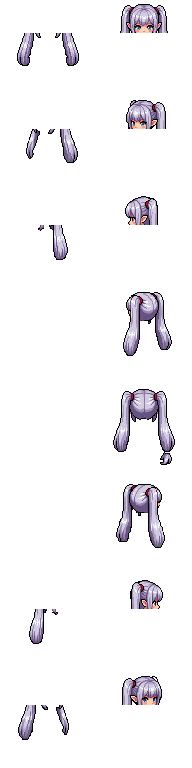
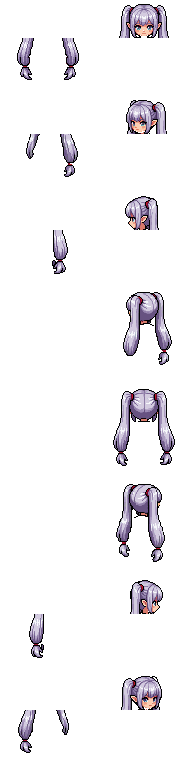
Twintail head keeps its chin; tails hang in one piece
The twintail layer was cut at the middle of the face: the neck finder counted the face's pink
as the red clothes the hairstyle sprite wears, so the chin was lost and the head sank into the
shirt. Skin no longer counts as clothes; small red patches well below the neck are hair ties
(the tips below them no longer float apart); red just above the neck is the collar seen from
behind. The layer is cut again from its rest sheet (neck 38).

Claude-Session: https://claude.ai/code/session_01EoAgD4nUuveX489aYfu2wP

diff --git a/tools/char_layers.py b/tools/char_layers.py
@@ -104,11 +104,13 @@ def is_skin(rgb):
 
 def find_neck(cell):
     """Top row of the red clothes near the middle of the body: the first of three rows that
-    each have at least 5 clothes pixels across the middle (a red hair tie or ribbon has fewer)."""
+    each have at least 5 clothes pixels across the middle (a red hair tie or ribbon has fewer;
+    the pink of the face isn't clothes)."""
     a = cell[..., 3] > 0
     xs = np.nonzero(a.any(0))[0]
     mid = int((xs.min() + xs.max()) / 2)
-    band = [sum(1 for x in range(mid - 6, mid + 7) if a[y, x] and is_cloth(cell[y, x, :3])) for y in range(CELL)]
+    band = [sum(1 for x in range(mid - 6, mid + 7) if a[y, x] and is_cloth(cell[y, x, :3]) and not is_skin(cell[y, x, :3]))
+            for y in range(CELL)]
     for y in range(CELL - 2):
         if min(band[y:y + 3]) >= 5:
             return y
@@ -119,6 +121,33 @@ def head_anchor(cell, neck):
     """Where the head joins the body. Oriverse centres every character on the same pivot, so
     heads from different sprites line up by canvas column; only the neck height differs."""
     return [CELL / 2, neck]
+
+
+TIE = 40        # px: a red patch this small below the neck is a hair tie, not clothes
+TIE_BELOW = 8   # rows under the neck where a hair tie can start
+COLLAR = 4      # rows above the neck where red is the collar seen from behind
+
+
+def patches(mask):
+    """8-connected patches of a mask, as lists of (x, y)."""
+    seen = np.zeros_like(mask)
+    out = []
+    for y0, x0 in zip(*np.nonzero(mask)):
+        if seen[y0, x0]:
+            continue
+        stack, patch = [(x0, y0)], []
+        seen[y0, x0] = True
+        while stack:
+            x, y = stack.pop()
+            patch.append((x, y))
+            for dy in (-1, 0, 1):
+                for dx in (-1, 0, 1):
+                    nx, ny = x + dx, y + dy
+                    if 0 <= nx < CELL and 0 <= ny < CELL and mask[ny, nx] and not seen[ny, nx]:
+                        seen[ny, nx] = True
+                        stack.append((nx, ny))
+        out.append(patch)
+    return out
 
 
 def split_hair(cell, neck, front_all):
@@ -140,6 +169,16 @@ def split_hair(cell, neck, front_all):
         for dx in (-1, 0, 1):
             near |= np.roll(np.roll(colour, dy, 0), dx, 1)
     hairy = colour | (dark & near)
+    # a hair tie: a small patch of the clothes' red apart from the clothes themselves, well below
+    # the neck (bits of the collar showing between the hair are small patches too)
+    red = np.zeros_like(a)
+    for y in range(neck, CELL):
+        for x in range(CELL):
+            red[y, x] = a[y, x] and is_cloth(cell[y, x, :3]) and not is_skin(cell[y, x, :3])
+    for patch in patches(red):
+        if len(patch) <= TIE and min(y for _, y in patch) > neck + TIE_BELOW:
+            for x, y in patch:
+                hairy[y, x] = True
     below = np.zeros_like(a)
     stack = [(x, neck) for x in range(CELL) if hairy[neck, x] and a[neck - 1, x]]
     for x, y in stack:
@@ -154,6 +193,11 @@ def split_hair(cell, neck, front_all):
                     stack.append((nx, ny))
     head = a.copy()
     head[neck:] = False
+    # the collar is higher at the back: its red just above the neck row isn't head
+    for y in range(max(0, neck - COLLAR), neck):
+        for x in range(CELL):
+            if head[y, x] and is_cloth(cell[y, x, :3]) and not is_skin(cell[y, x, :3]):
+                head[y, x] = False
     back = np.zeros_like(cell)
     front = np.zeros_like(cell)
     front[head] = cell[head]
